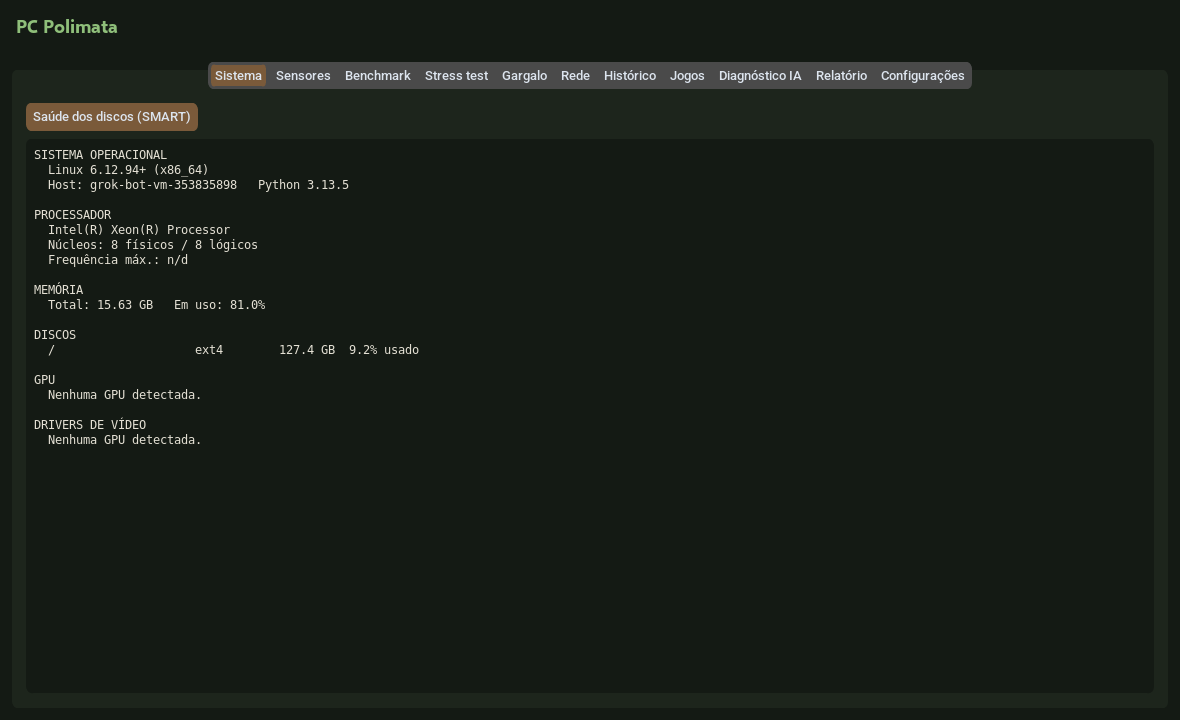
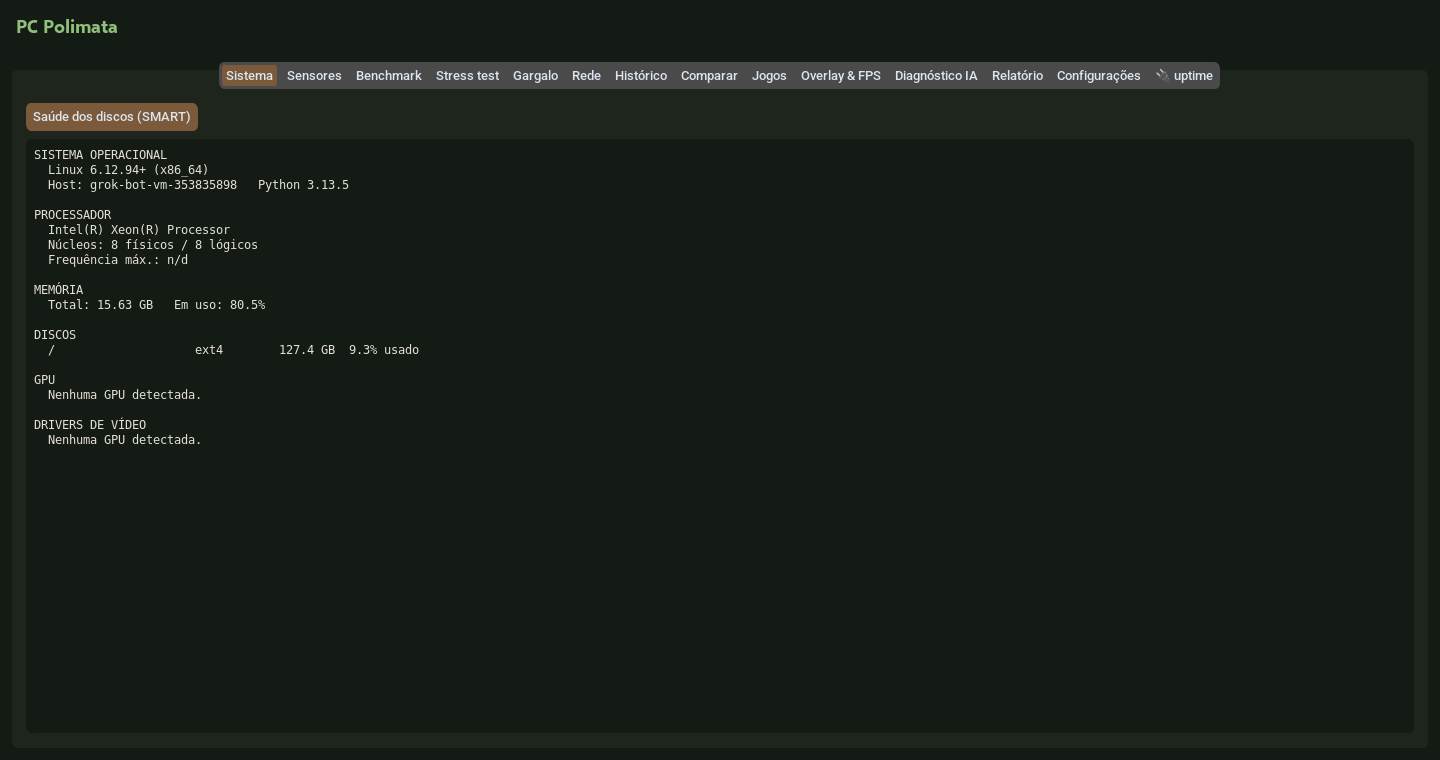
docs: PLUGINS.md, OVERLAY.md, example files and new screenshots

Changed region(s): [[0.0, 0.0611, 0.8542, 0.6417], [0.1831, 0.4583, 0.3356, 0.4889], [0.0, 0.0306, 0.0915, 0.0611]]

diff --git a/scripts/screenshot.py b/scripts/screenshot.py
@@ -1,4 +1,4 @@
-"""Gera screenshots da GUI em docs/ (Linux: `xvfb-run -s "-screen 0 1180x720x24" python scripts/screenshot.py`).
+"""Gera screenshots da GUI em docs/ (Linux: `xvfb-run -s "-screen 0 1440x760x24" python scripts/screenshot.py`).
 
 Uso: python scripts/screenshot.py [--lang en] [--prefix nome] [--gif] [Aba=segundos ...]
 ex.: python scripts/screenshot.py Sistema=2 Sensores=20
@@ -38,12 +38,20 @@ def _demo_games(tab) -> None:
     tab.refresh()
 
 
+def _demo_compare(tab) -> None:
+    # Arquivos de EXEMPLO (valores ilustrativos) em docs/examples/.
+    tab.load("a", "docs/examples/runs_desktop_example.json")
+    tab.load("b", "docs/examples/runs_notebook_example.json")
+
+
 # Ações executadas antes de capturar cada aba (apenas para as imagens do README).
 DEMO_ACTIONS = {
     "Rede": lambda tab: tab.run_latency(),
     "Histórico": lambda tab: tab.refresh(),
     "Jogos": _demo_games,
     "Diagnóstico IA": lambda tab: tab.run(),
+    "Comparar": _demo_compare,
+    "Overlay & FPS": lambda tab: tab.app.toggle_overlay(),
 }
 
 
@@ -52,12 +60,12 @@ def _demo_alert(app: PolimataApp) -> None:
     app.on_snapshot(SensorSnapshot(0, 97, [97], 60, 0, 0, cpu_temp_c=91.0))
 
 
-W, H = 1180, 720
+W, H = 1440, 760
 
 
 def slug(name: str) -> str:
     ascii_name = unicodedata.normalize("NFKD", name).encode("ascii", "ignore").decode()
-    return ascii_name.lower().replace(" ", "_")
+    return ascii_name.strip().lower().replace(" & ", "_").replace(" ", "_")
 
 
 def main(argv: list[str]) -> None:
@@ -79,9 +87,14 @@ def main(argv: list[str]) -> None:
             _demo_alert(app)
             name = "Sensores"
             target = "alerta"
+        elif name == "Plugins":  # Configurações rolada até a seção de plugins
+            name, target = "Configurações", "plugins"
+            app.after(300, lambda: app.tab_objects[name].scroll._parent_canvas.yview_moveto(1.0))
         else:
             target = slug(name)
-        app.tabs.set(tr(name))
+        if app.overlay is not None and name != "Overlay & FPS":
+            app.toggle_overlay()
+        app.tabs.set(name if name.startswith("🔌") else tr(name))
         if name in DEMO_ACTIONS and target != "alerta":
             DEMO_ACTIONS[name](app.tab_objects[name])
 

diff --git a/docs/examples/plugins/cpu_freq.py b/docs/examples/plugins/cpu_freq.py
@@ -1,0 +1,16 @@
+"""Plugin local de exemplo: copie para <config>/plugins/ (ver docs/PLUGINS.md)."""
+
+import psutil
+
+
+class CpuFreq:
+    name = "cpu_freq"
+    version = "0.1.0"
+    description = "Current/min/max CPU frequency"
+
+    def collect(self):
+        f = psutil.cpu_freq()
+        return {"current_mhz": f.current, "min_mhz": f.min, "max_mhz": f.max} if f else {"available": False}
+
+
+plugin = CpuFreq()

diff --git a/docs/OVERLAY.md b/docs/OVERLAY.md
@@ -1,0 +1,47 @@
+# Overlay e FPS
+
+## Overlay de sensores (Windows e Linux)
+
+Aba **Overlay & FPS** → *Mostrar/ocultar overlay* (ou pelo menu da bandeja). Uma janela pequena, sem borda,
+sempre por cima e semitransparente mostra CPU %, GPU %, RAM % e temperaturas, atualizada no intervalo das
+Configurações. Canto, tamanho (small/medium/large) e opacidade (0.2–1.0) ficam em Configurações.
+Arraste para mover; clique direito fecha.
+
+**Limitações honestas**
+
+- É uma janela comum do SO, **não um hook no jogo**. Aparece por cima de jogos em **janela** ou **janela sem
+  borda**. Em **tela cheia exclusiva** (DirectX/Vulkan) o jogo cobre qualquer janela e o overlay some. Para
+  overlay dentro de tela cheia, use ferramentas que injetam no render (RTSS, MangoHud, overlay da NVIDIA/AMD).
+- Transparência depende do gerenciador de janelas; em alguns ambientes Linux sem compositor ela é ignorada.
+- O overlay só é atualizado enquanto o monitoramento está ativo (a pausa pela bandeja congela os valores).
+
+## FPS, 1% low e frametime (Windows, PresentMon)
+
+O PC Polimata não mede FPS sozinho. Ele usa o **[PresentMon](https://github.com/GameTechDev/PresentMon)**
+(open source, da Intel), que lê eventos ETW do Windows e grava um CSV com uma linha por frame.
+
+1. Baixe o executável de linha de comando em <https://github.com/GameTechDev/PresentMon/releases>
+   (ex.: `PresentMon-2.x.x-x64.exe`).
+2. Coloque-o no `PATH` **ou** defina `PRESENTMON_PATH` com o caminho completo. O app também procura em
+   `%ProgramFiles%\Intel\PresentMon`.
+3. Rode o PC Polimata **como administrador** (exigência do ETW).
+4. Com o jogo aberto, informe o executável (ex.: `game.exe`), escolha 10/30/60 s e clique em
+   *Medir FPS (PresentMon)*. O resultado aparece na aba, no relatório (`fps_capture`) e no overlay.
+
+Também dá para analisar um CSV gravado antes, inclusive em Linux:
+
+```bash
+pc-polimata --fps-csv captura.csv --process game.exe
+```
+
+**Como os números são calculados** (`pc_polimata/core/presentmon.py`):
+
+- frametime = coluna `MsBetweenPresents` (PresentMon 1.x/2.x) ou `FrameTime` (2.x); linhas `NA` são ignoradas;
+- FPS médio = 1000 / frametime médio;
+- 1% low = FPS médio do 1% de frames mais lentos (definição usada em reviews);
+- p99 e máximo de frametime em ms.
+
+**Limitações**: somente Windows; requer admin; mede a **cadência de apresentação** (o que o PresentMon vê),
+não o tempo de GPU por frame; os parâmetros de linha de comando seguem o PresentMon 2.x (a 1.x usa os
+mesmos nomes com um hífen só — rode-a manualmente e use `--fps-csv`). O parser é testado com CSVs de
+exemplo; a captura real não pôde ser testada na VM Linux de desenvolvimento.

diff --git a/docs/PLUGINS.md b/docs/PLUGINS.md
@@ -1,0 +1,66 @@
+# Plugins
+
+O PC Polimata aceita plugins Python que adicionam dados ao relatório/CLI e, opcionalmente, uma aba na GUI.
+
+## Contrato (`pc_polimata.core.plugins.Plugin`)
+
+```python
+class Plugin(Protocol):
+    name: str  # único; usado para habilitar/desabilitar
+    version: str
+
+    def collect(self) -> dict[str, Any]: ...  # dados serializáveis em JSON
+```
+
+Opcional:
+
+- `description: str` — mostrado em Configurações → Plugins.
+- `create_tab(master, app) -> None` — recebe o frame da aba (customtkinter) e a janela principal; o app cria
+  uma aba `🔌 <name>`. Importe `customtkinter` **dentro** da função, para o plugin continuar funcionando na CLI.
+
+Um módulo pode expor o plugin como `plugin = MeuPlugin()` ou `def get_plugin() -> Plugin`. Um entry point pode
+apontar para o objeto, a classe (será instanciada) ou o módulo.
+
+## Onde o app procura
+
+1. **Embutidos**: `pc_polimata/plugins/uptime.py` (tempo ligado, com aba de exemplo) e
+   `pc_polimata/plugins/battery.py` (carga e saúde da bateria).
+2. **Entry points** do grupo `pc_polimata.plugins` de pacotes instalados:
+
+   ```toml
+   # pyproject.toml do seu pacote
+   [project.entry-points."pc_polimata.plugins"]
+   meu_plugin = "meu_pacote.plugin:plugin"
+   ```
+
+3. **Pasta local**: todo `*.py` em `%APPDATA%\PCPolimata\plugins` (Windows) ou `~/.config/pc-polimata/plugins`
+   (Linux); arquivos que começam com `_` são ignorados. Exemplo pronto: [examples/plugins/cpu_freq.py](examples/plugins/cpu_freq.py).
+
+Se dois plugins tiverem o mesmo `name`, vale o primeiro na ordem acima.
+
+## Isolamento de falhas
+
+Toda chamada passa por `PluginHost`:
+
+- erro ao importar (inclusive `SyntaxError`) vira `load_error`, mostrado em vermelho em Configurações;
+- exceção em `collect()` ou retorno que não é `dict` vira `{"ok": false, "error": "..."}` no relatório;
+- exceção em `create_tab()` mostra a mensagem dentro da aba;
+- valores não serializáveis são convertidos para texto.
+
+Ou seja, um plugin com defeito não derruba o app. **Isso não é um sandbox de segurança**: plugins são código
+Python com as mesmas permissões do app. Instale só plugins em que você confia.
+
+## Usar
+
+- GUI: Configurações → Plugins (marcar/desmarcar e reiniciar para abas novas).
+- CLI: `pc-polimata --list-plugins` e `pc-polimata --plugins -o relatorio.json`.
+
+## Testar o seu plugin
+
+```python
+from pc_polimata.core.plugins import PluginHost, _record
+from meu_pacote.plugin import plugin
+
+result = PluginHost([_record(plugin, "test", plugin.name)]).collect_all()[plugin.name]
+assert result.ok, result.error
+```

diff --git a/docs/ARCHITECTURE.md b/docs/ARCHITECTURE.md
@@ -27,6 +27,16 @@ flowchart LR
         HI[history]
         RP[report]
         CFG[settings / secrets / units]
+        PL[plugins]
+        PM[presentmon]
+        EX[exchange]
+        LV[live]
+    end
+
+    subgraph Plugins["Plugins (isolados por PluginHost)"]
+        BI[embutidos: uptime, battery]
+        EP[(entry points<br/>pc_polimata.plugins)]
+        LF[(pasta local<br/>config/plugins/*.py)]
     end
 
     subgraph Externos["Fontes externas (opcionais)"]
@@ -38,6 +48,8 @@ flowchart LR
         LLM[(API compatível OpenAI)]
         DB[(SQLite)]
         TIERS[(data/hardware_tiers.json)]
+        PMX[(PresentMon.exe)]
+        TRAY[(pystray + Pillow)]
     end
 
     GUI --> Core
@@ -52,6 +64,11 @@ flowchart LR
     GA --> TIERS
     BN --> SE
     ST --> SE
+    PL --> BI & EP & LF
+    PM --> PMX
+    EX --> HI
+    GUI -.bandeja.-> TRAY
+    LV --> SE
 ```
 
 ## Princípios
